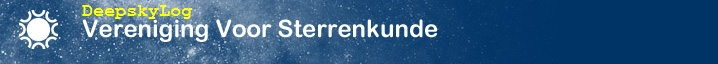
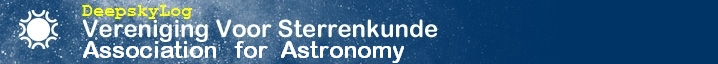
Bug 141: VVS => Ass for Astro solved

Changed region(s): [[0.0919, 0.625, 0.5822, 1.0], [0.0919, 0.0938, 0.2758, 0.2812]]

diff --git a/styles/style.css b/styles/style.css
@@ -212,7 +212,7 @@ body {
   background-color : #003366;
   position         : absolute;
   left             : 0px;        top     : 0px;
-  width            : 100%;       height  : 60px;
+  width            : 100%;       height  : 64px;
 }
 #div1a {
   position         : absolute;
@@ -226,7 +226,7 @@ body {
 }
 #div2 {
 	position         : absolute;
-	left             : 0px;         top    : 60px;
+	left             : 0px;         top    : 64px;
 	width            : 100%;        height : 25px;
   background-color : #5C7D9D;
 }
@@ -246,7 +246,7 @@ body {
 }
 #div4 {
 	position         : absolute;
-	left             : 158px;       top    : 85px;
+	left             : 158px;       top    : 89px;
 	width            : 822px;       height : 475px;
   border           : 0px;         margin : 0px;           padding : 0px;
 	background-color : #FFFFFF;
@@ -259,7 +259,7 @@ body {
 #div4b {
   position         : absolute;
   border           : 0px;         margin : 0px;           padding : 0px;
-  left             : 0px;         top    : 464px;	
+  left             : 0px;         top    : 460px;	
 }
 #div4c {
   position         : absolute;
@@ -271,11 +271,11 @@ body {
   position         : absolute;
   width            : 11px;
   border           : 0px;         margin : 0px;           padding : 0px;
-  left             : 811px;       top    : 464px;	
+  left             : 811px;       top    : 460x;	
 }
 #div5 {
 	position         : absolute;
-	left             : 169px;       top    : 90px;      
+	left             : 169px;       top    : 94px;      
 	width            : 800px;       height : 465px;       
   margin           : 0px;         border : 0px;
   padding-left     : 0px;         padding-right : 2px; 

diff --git a/lib/javascript/presentation.js b/lib/javascript/presentation.js
@@ -28,9 +28,9 @@ function resizeForm()
   theClientWidth=width;
   document.getElementById('div4').style.height=(height-113)+'px';
   document.getElementById('div4').style.width =(width-163)+'px';
-  document.getElementById('div4b').style.top = (height-124)+'px';
+  document.getElementById('div4b').style.top = (height-128)+'px';
   document.getElementById('div4c').style.left =(width-174)+'px';
-  document.getElementById('div4d').style.top = (height-124)+'px';
+  document.getElementById('div4d').style.top = (height-128)+'px';
   document.getElementById('div4d').style.left =(width-174)+'px';
   div5Height=(height-123);
   div5StdHeight=(height-123);
